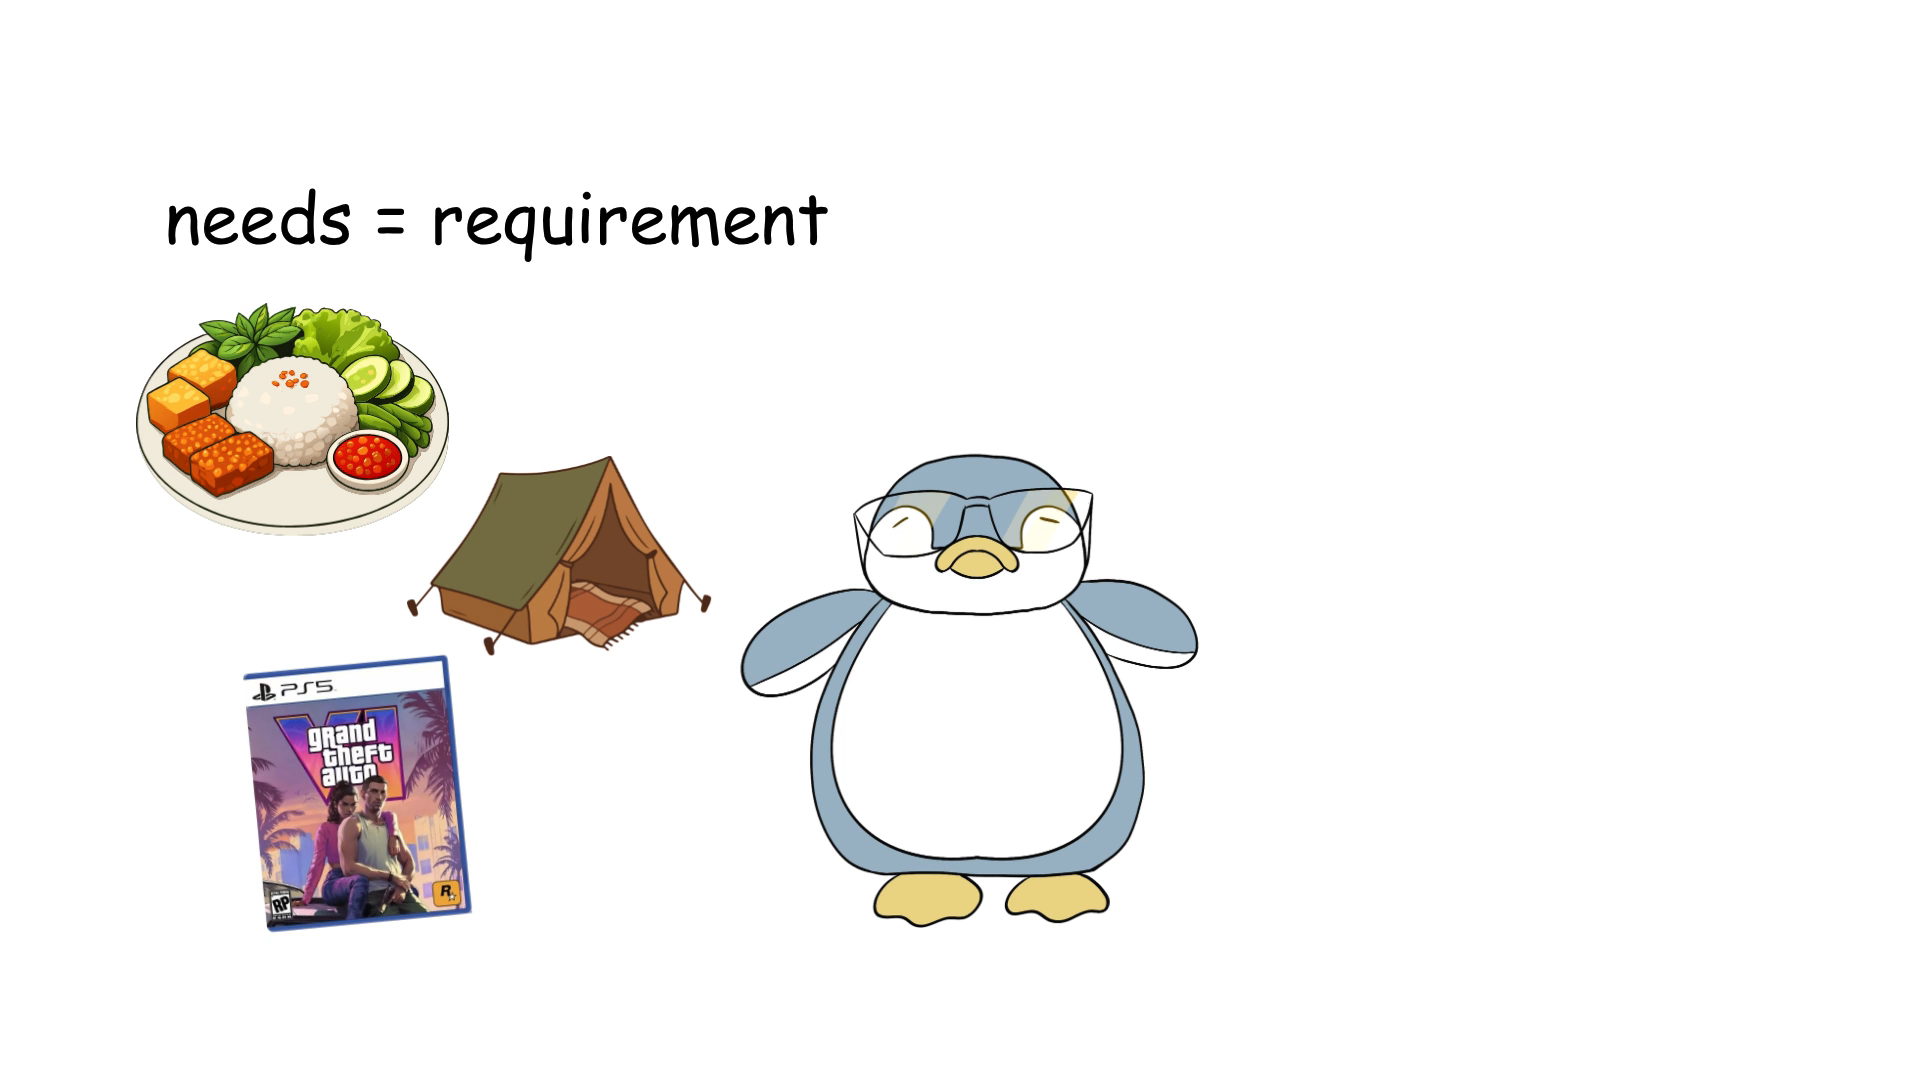
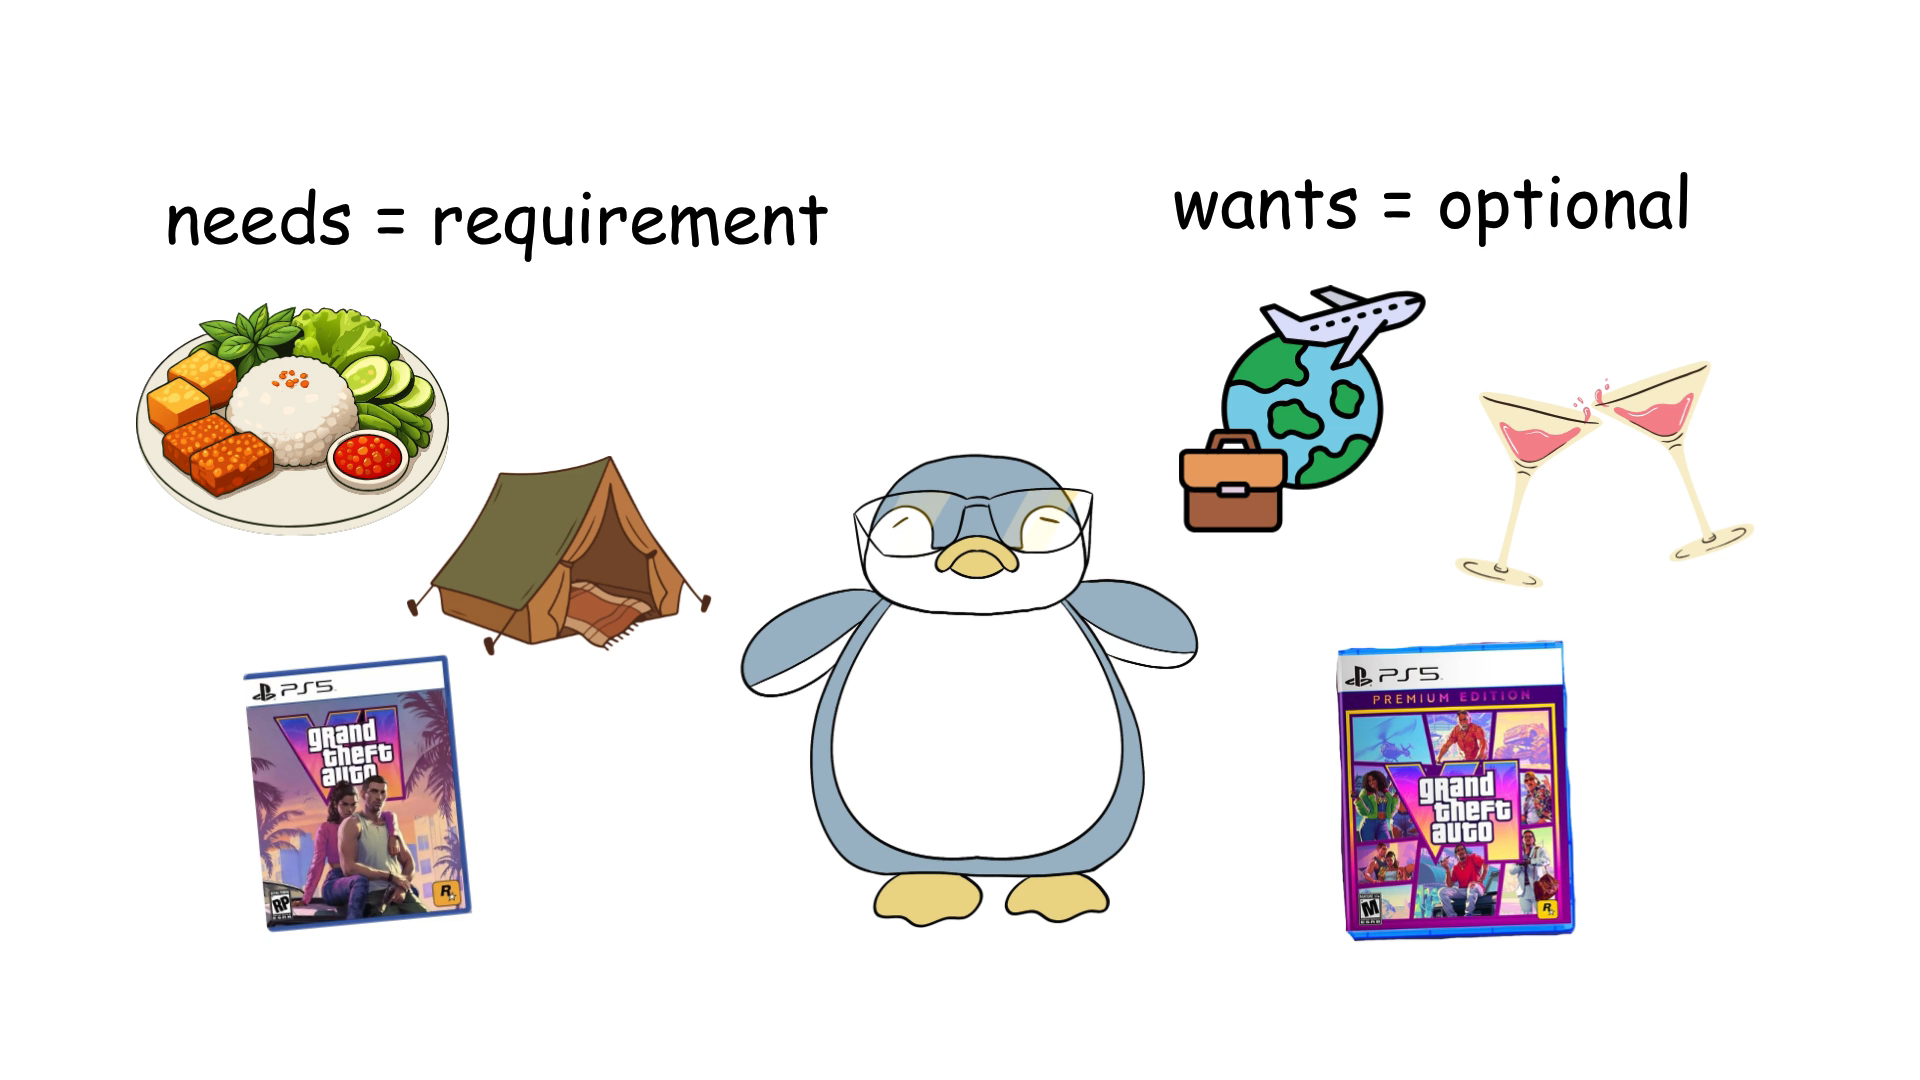
Needs vs Wants: show both needs and wants in definition image

diff --git a/src/data/blogs/needs-vs-wants.js b/src/data/blogs/needs-vs-wants.js
@@ -26,7 +26,7 @@ Most people would agree:
 - **Needs** are things that are *required* — necessary for survival. Food. Shelter. GTA VI.
 - **Wants**, on the other hand, are things that improve our happiness. They're optional. Vacations. Parties. The GTA VI collector's edition.
 
-![needs = requirement — food, shelter, and GTA VI](/images/posts/needs-vs-wants/01_needs_wants_definition.png)
+![needs = requirement, wants = optional — food, shelter, GTA VI, travel, and a second GTA VI](/images/posts/needs-vs-wants/01_needs_wants_definition.png)
 
 But there are two problems with this.
 
